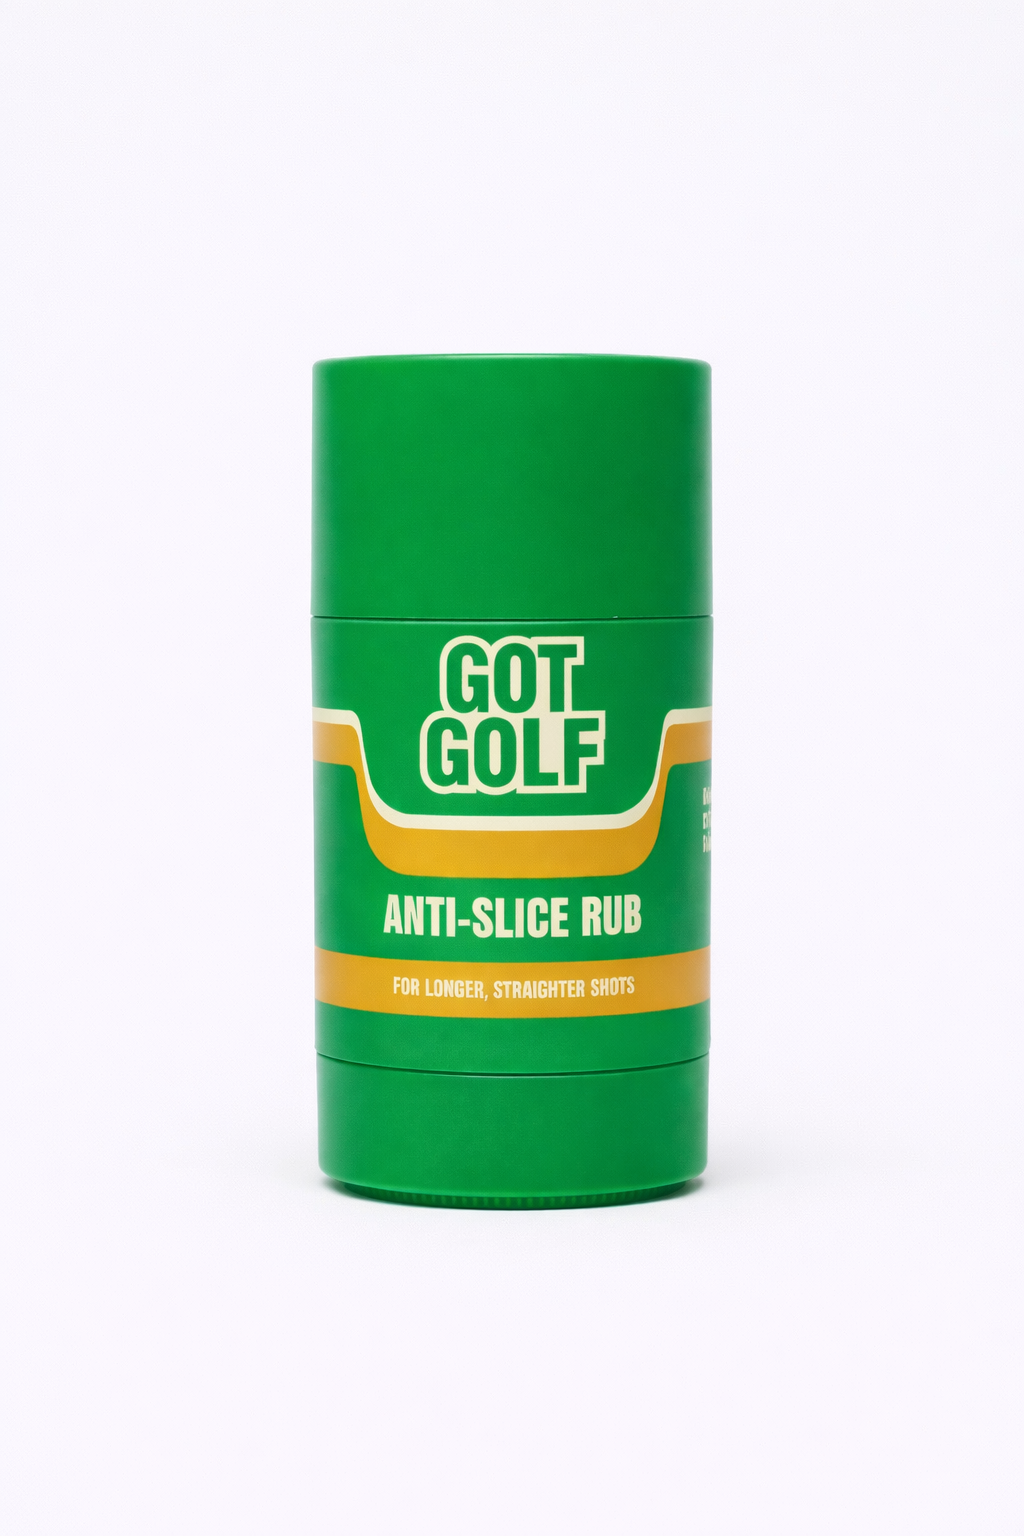
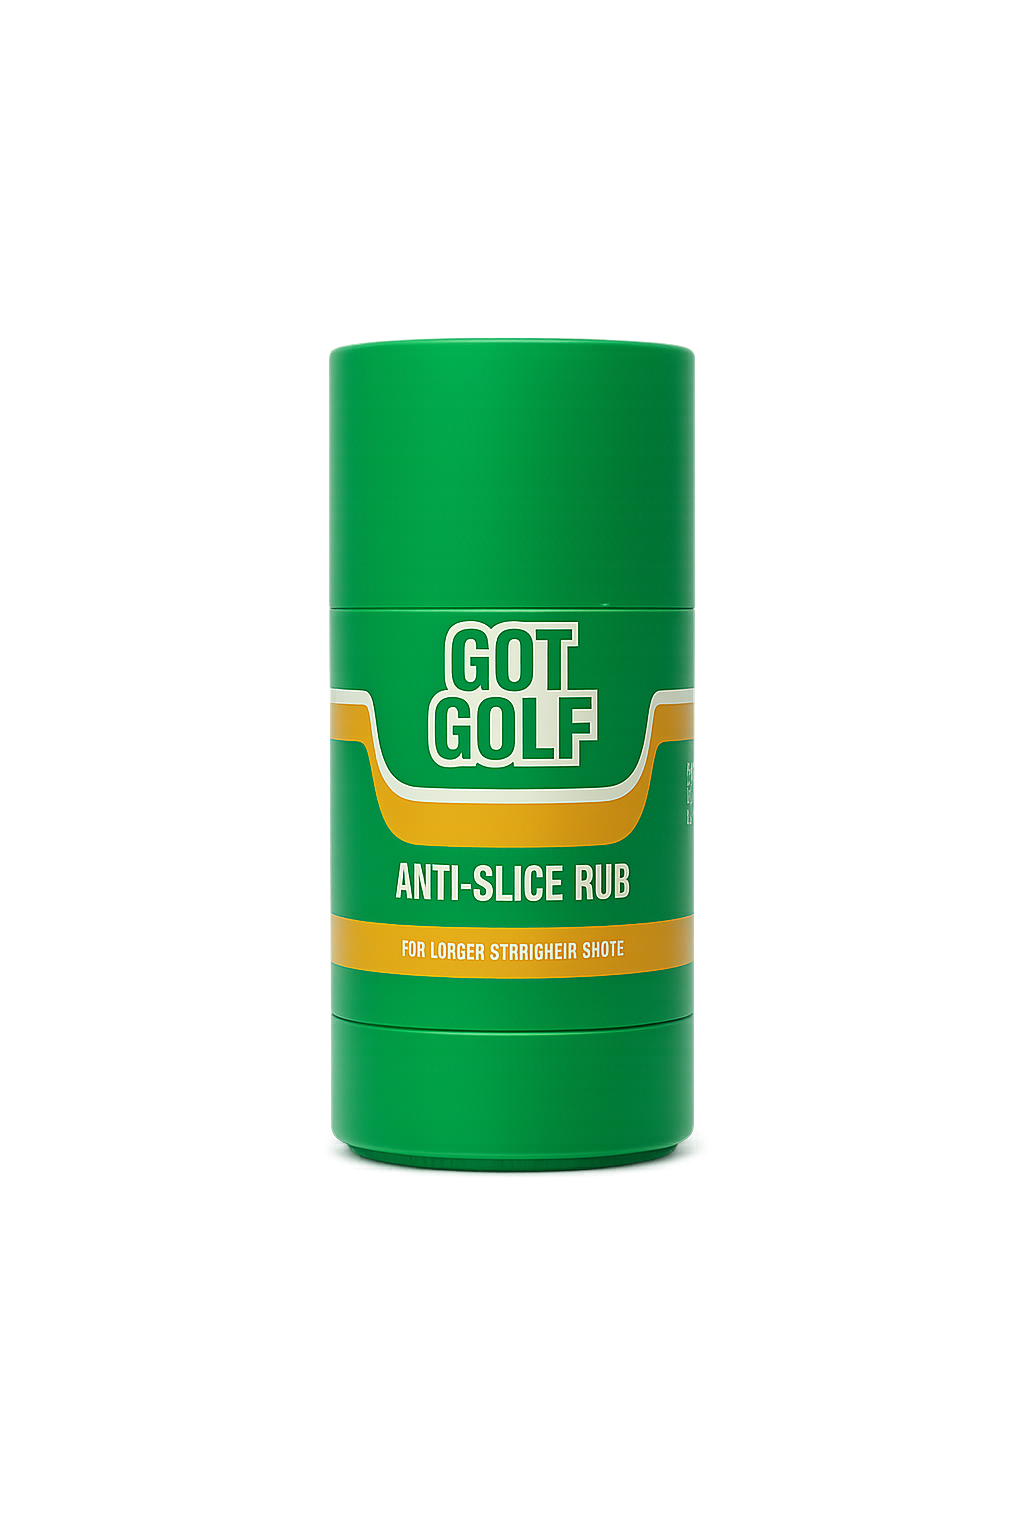
Add files via upload

Changed region(s): [[0.2812, 0.2188, 0.7188, 0.8125]]

diff --git a/styles.css b/styles.css
@@ -598,19 +598,17 @@ code{
 }
 .product-image-frame{
  width: 100%;
- max-width: 620px;          /* bigger than your current 520px */
- border-radius: 18px;
- overflow: hidden;
+ max-width: 680px;   /* makes it slightly larger */
+ margin: 0 auto;
 
- background: #FFFFFF;       /* removes the black frame */
- border: 1px solid rgba(28,31,29,.08);
+ background: transparent;
+ border: none;
+ box-shadow: none;
+ padding: 0;
 
  display: flex;
  align-items: center;
  justify-content: center;
-
- padding: 18px;             /* even spacing around product */
- box-shadow: 0 10px 24px rgba(0,0,0,.06); /* softer premium shadow */
 }
 
 .product-image {
